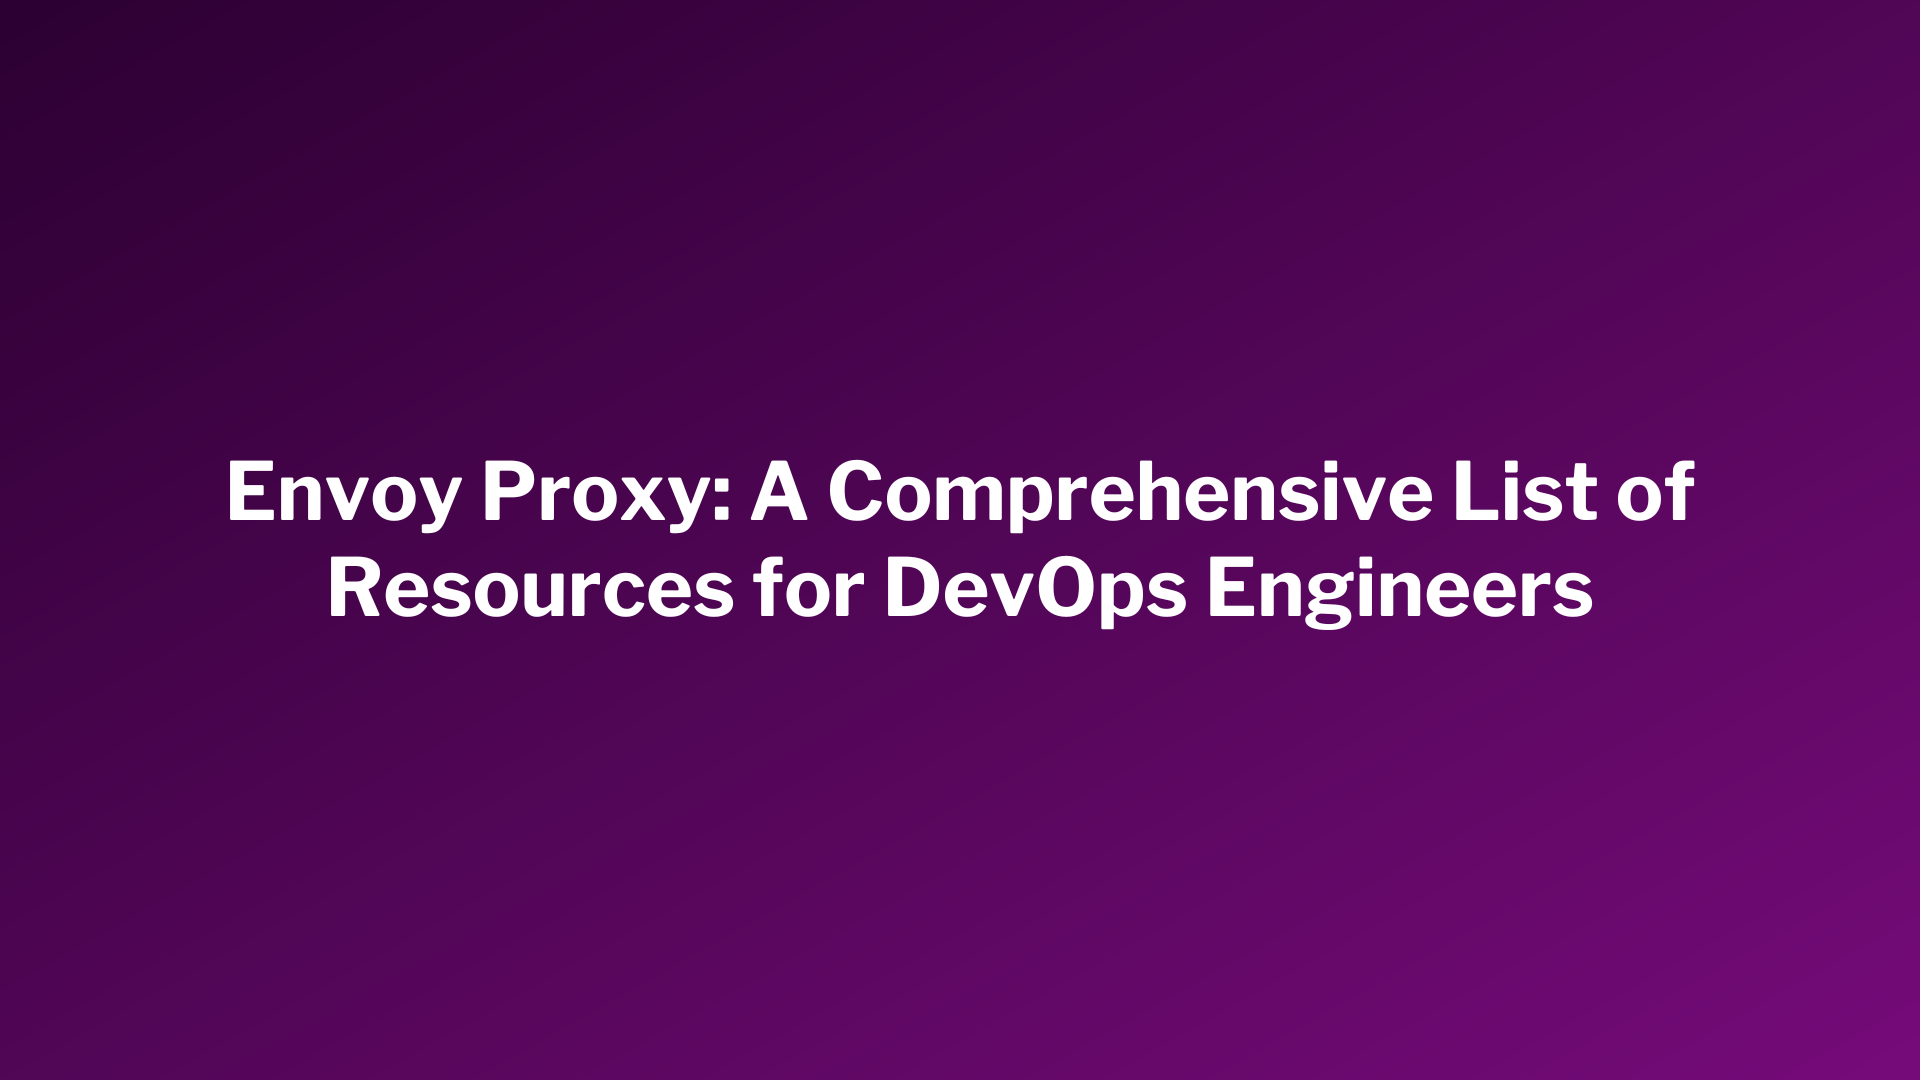
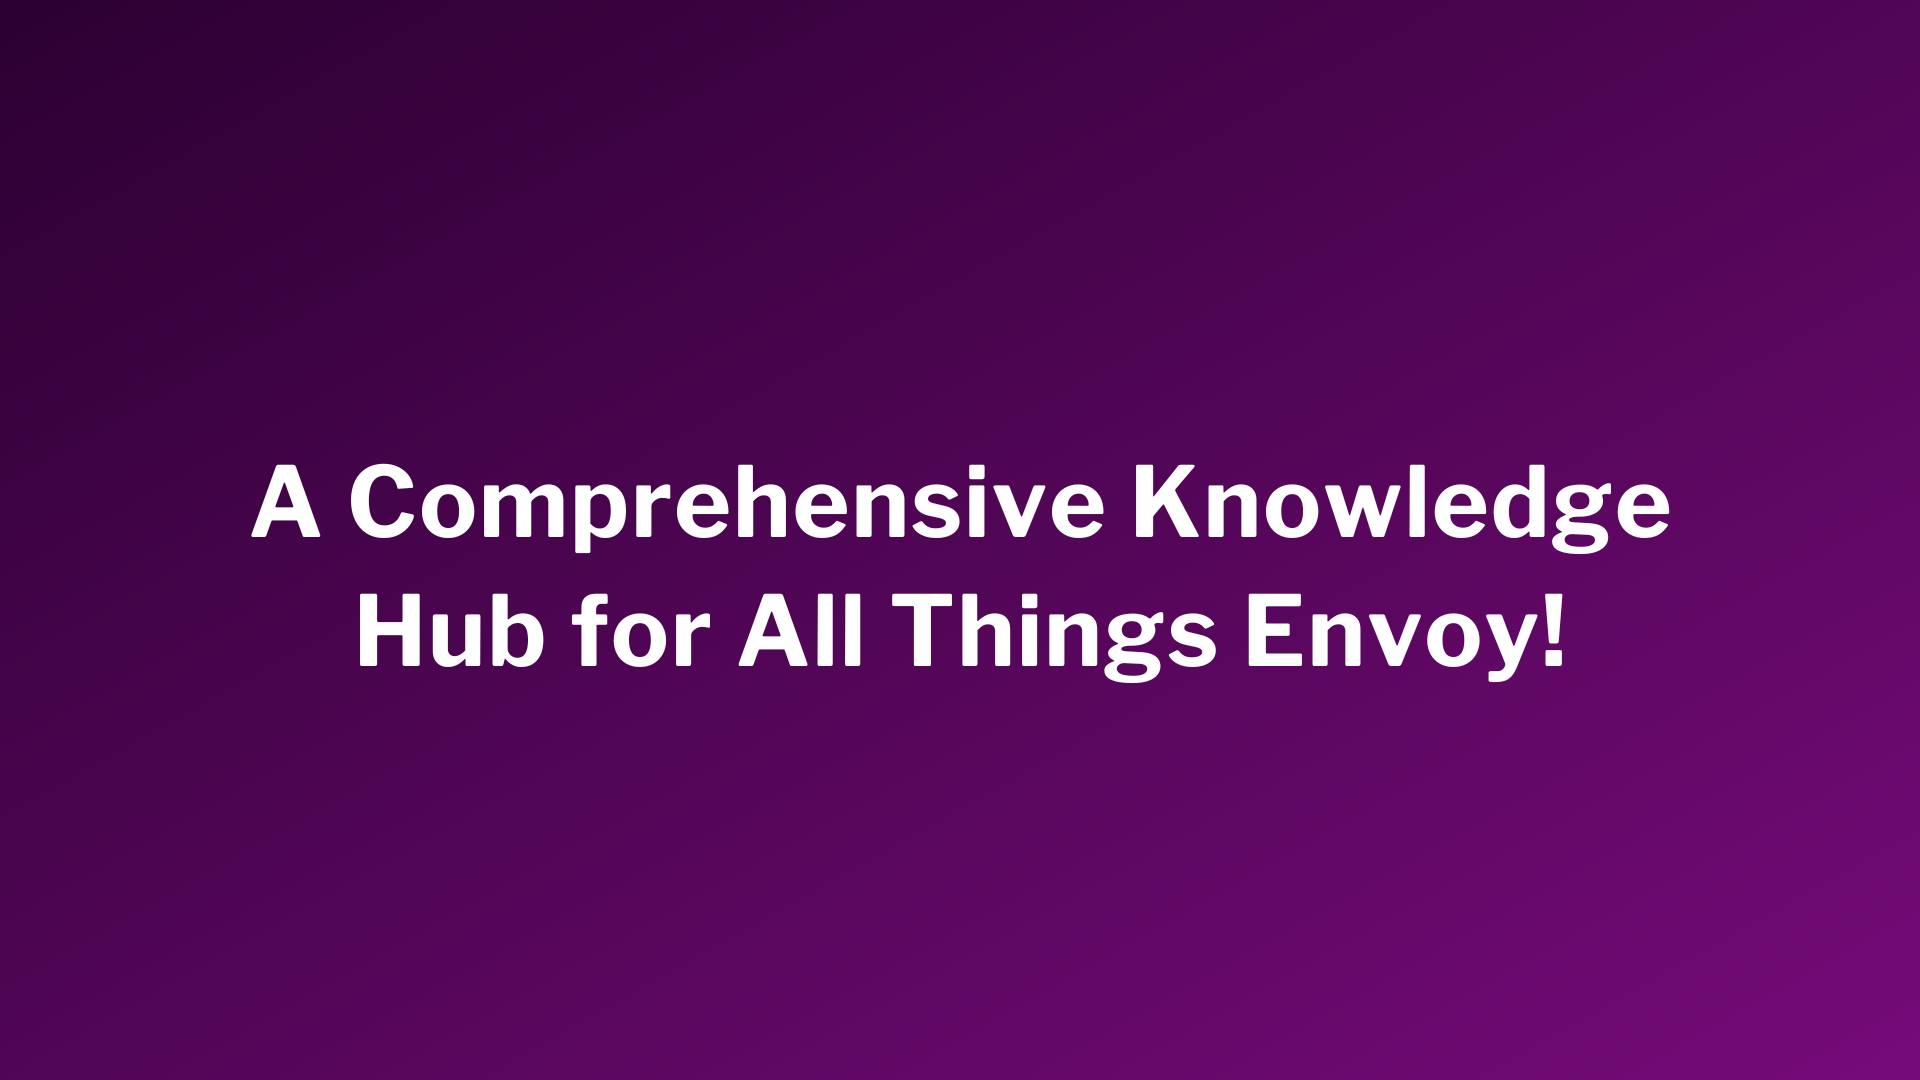
added tools and extensions for envoy

Changed region(s): [[0.0938, 0.4278, 0.9062, 0.6417]]

diff --git a/README.md b/README.md
@@ -1,4 +1,4 @@
-# Envoy Proxy: A Comprehensive List of Resources
+# Knowledge Hub for Envoy Proxy!
 ![envoy-title](./img/envoy.png)
 > Envoy Proxy is a high-performance, open-source edge and service proxy designed for cloud-native applications, and with its versatile features, it has become an essential component in modern application architectures.
 # Introduction
@@ -7,6 +7,7 @@ This is a curated knowledge repository of best practices, techniques, tools, tut
 ## Contents
 - [Getting Started Guide](#getting-started-guide)
 - [EnvoyCon](#envoycon)
+- [Tools and Extensions](#tools-and-extensions)
 - [Configuration Generator](#configuration-generator)
 - [Case Studies](#case-studies)
 - [Contributing](#contributing)
@@ -25,10 +26,11 @@ This section is dedicated to providing articles on how to get started with Envoy
 * [Envoy Proxy: Concepts, Architecture & Quick Tutorial](https://www.solo.io/topics/envoy-proxy/).
 * [Anatomy of envoy proxy: the architecture of envoy and how it works](https://songrgg.github.io/architecture/deeper-understanding-to-envoy/).
 * [Service Mesh with Envoy](https://www.loginradius.com/blog/engineering/service-mesh-with-envoy/).
+* [Service mesh data plane vs. control plane](https://blog.envoyproxy.io/service-mesh-data-plane-vs-control-plane-2774e720f7fc).
 
 
 ## EnvoyCon
-In this section, you will find a collection of talks and presentation slides that are focused on Envoy. These resources were presented at EnvoyCon, a conference dedicated to all things Envoy.
+In this section, you will find a collection of talks that are focused on Envoy. These resources were presented at EnvoyCon, a conference dedicated to all things Envoy.
 
 ### 2022
 * [Leveraging Envoy to Implement Micro-Segmentation-Based Security Policies](https://youtu.be/EKyV_m--Dk0).
@@ -105,18 +107,32 @@ In this section, you will find a collection of talks and presentation slides tha
 
 ## Configuration Generator
 You may need an Envoy configuration generator to simplify the process of configuring and deploying Envoy proxies in your infrastructure. An Envoy configuration generator can help automate this process by providing a user-friendly interface for defining your proxy's behavior, and then generating the corresponding configuration file automatically.
-
-Get ready to supercharge your Envoy setup with these top-notch configuration generators!
-
 * [Front proxy template](https://github.com/envoyproxy/envoy/blob/9f65b998949f89170decb393dbaa591924820df9/configs/envoy_front_proxy.template.yaml).
 * [Double proxy template](https://github.com/envoyproxy/envoy/blob/9f65b998949f89170decb393dbaa591924820df9/configs/envoy_double_proxy.template.yaml).
 * [Service to service template](https://github.com/envoyproxy/envoy/blob/9f65b998949f89170decb393dbaa591924820df9/configs/envoy_service_to_service.template.yaml).
 * [Generator script](https://github.com/envoyproxy/envoy/blob/9f65b998949f89170decb393dbaa591924820df9/configs/configgen.py).
 
 
+## Tools and Extensions
+Supercharge your Envoy setup with these top-notch tools, extensions and example configurations
+* [K8s-native AuthN/AuthZ service to protect your APIs](https://github.com/Kuadrant/authorino).
+* [Custom envoy extensions](https://github.com/envoyproxy/envoy/tree/main/source/extensions).
+* [Limitador: rate limiter](https://github.com/Kuadrant/limitador).
+* [A plugin to enforce OPA policies with Envoy](https://github.com/open-policy-agent/opa-envoy-plugin).
+* [Easy auth for reverse proxies](https://github.com/travisghansen/external-auth-server).
+* [Starter Envoy configurations for various use cases](https://github.com/envoyproxy/envoy/tree/main/examples).
+* [Example of consuming Envoy and adding a custom filter](https://github.com/envoyproxy/envoy-filter-example).
+* [Envoy Proxy Big Book of Examples](https://github.com/repenno/envoybigbook).
+* [Envoy filters in Go](https://github.com/myteksi/ego-demo).
+* [Istio/Envoy RBAC & ABAC authorization middleware based on Casbin](https://github.com/casbin/envoy-authz).
+* [Ansible Role for Envoy Proxy](https://github.com/hugoprudente/ansible-role-envoyproxy).
+* [Envoy config linter](https://envoylint.com/).
+* [Teaching myself about Envoy on Kubernetes](https://github.com/bakins/kubernetes-envoy-example).
+* [Envoy config linter](https://envoylint.com/).
+
+
 ## Case Studies
 In this section, readers will find case studies that showcase how various organizations have implemented Envoy in their operations. These case studies provide insights into the practical applications and benefits of using Envoy in different contexts.
-
 * [Dropbox: How we migrated Dropbox from Nginx to Envoy](https://dropbox.tech/infrastructure/how-we-migrated-dropbox-from-nginx-to-envoy).
 * [Mux: Envoy as a service-to-service proxy](https://www.mux.com/blog/envoy-as-a-service-to-service-proxy).
 * [Monzo: We deployed Envoy Proxy to make Monzo faster](https://monzo.com/blog/2019/04/03/deploying-envoy-proxy).
